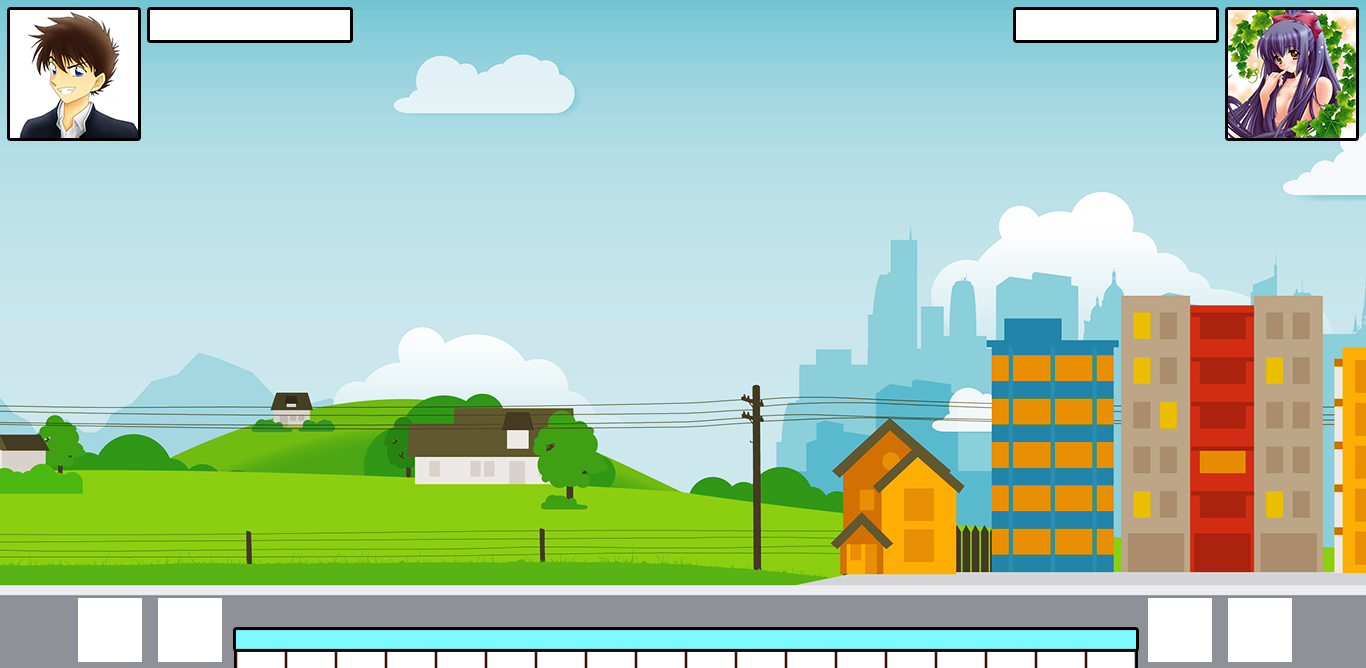
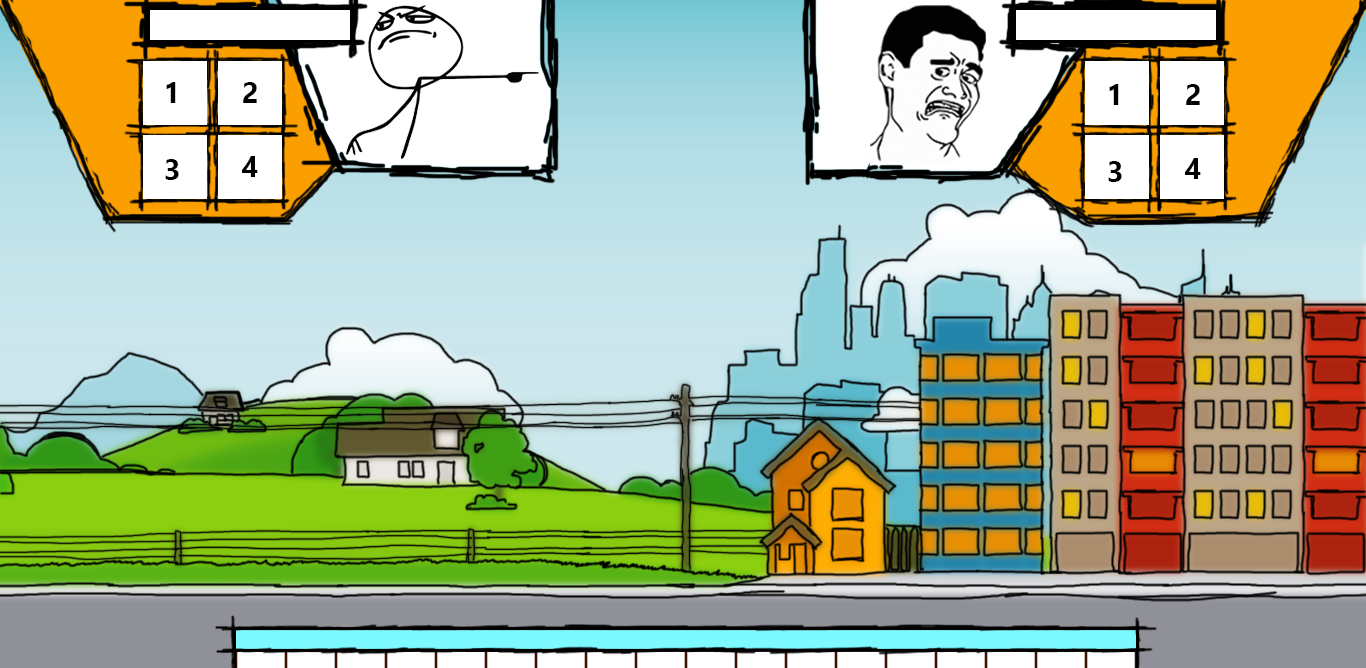
+ New resource

diff --git a/trunk/game/Soul/Soul-Leader-Cocos2d-html5/maingame.html b/trunk/game/Soul/Soul-Leader-Cocos2d-html5/maingame.html
@@ -1,0 +1,27 @@
+<!DOCTYPE html>
+<html>
+
+<style>
+    body {
+			/*background-image:url('images/bg.jpg');*/
+			background-color:#cccccc;
+			background-repeat:no-repeat;
+			background-position: center top; 
+		}
+	
+        #canvas-container {
+		   width: 100%;
+		   text-align:center;
+		   padding-top: 8px;
+		}
+
+		#maingame {
+		   display: inline;
+		}  
+</style>
+
+<frameset cols="1024px" rows="668px" id="canvas-container">
+  <frame id = "maingame" src="index.html">
+</frameset>
+
+</html>

diff --git a/trunk/game/Soul/Soul-Leader-Cocos2d-html5/cocos2d/shaders/CCGLProgram.js b/trunk/game/Soul/Soul-Leader-Cocos2d-html5/cocos2d/shaders/CCGLProgram.js
@@ -258,9 +258,7 @@ cc.GLProgram = cc.Class.extend({
         if (!source || !shader)
             return false;
 
-        //fix error in Chrome v31
-        //var preStr = (type == this._glContext.VERTEX_SHADER) ? "precision highp float;\n" : "precision mediump float;\n";
-        var preStr =  "precision highp float;\n";
+        var preStr = "precision highp float;\n";
 
         source = preStr
             + "uniform mat4 CC_PMatrix;         \n"

diff --git a/trunk/game/Soul/Soul-Leader-Cocos2d-html5/cocos2d.js b/trunk/game/Soul/Soul-Leader-Cocos2d-html5/cocos2d.js
@@ -29,7 +29,6 @@
             'src/Computer.js',
             
             'src/myApp.js'//add your own files in order here
-            
         ]
     };
 
@@ -70,3 +69,8 @@
         //else if single file specified, load singlefile
     });
 })();
+
+// //resize canvas
+// var mycanvas = document.getElementById("gameCanvas");
+// mycanvas.width = window.innerWidth;
+// mycanvas.height = window.innerHeight;

diff --git a/trunk/game/Soul/Soul-Leader-Cocos2d-html5/res/xvn/Ball/WinLose/_WinImages.js b/trunk/game/Soul/Soul-Leader-Cocos2d-html5/res/xvn/Ball/WinLose/_WinImages.js
@@ -1,0 +1,13 @@
+WinImages = [
+	"CleanAllTheThings.png",
+	"EWBTE.png",
+	"Freddie.png",
+	"gentleman.png",
+	"GreatScott.png",
+	"HeckNo.png",
+	"LOL.png",
+	"NotBad.png",
+	"PukeRainbows.png",
+	"TheSaddest.png",
+	"WellDone.png"
+];

diff --git a/trunk/game/Soul/Soul-Leader-Cocos2d-html5/res/xvn/Ball/WinLose/_LoseImages.js b/trunk/game/Soul/Soul-Leader-Cocos2d-html5/res/xvn/Ball/WinLose/_LoseImages.js
@@ -1,0 +1,13 @@
+LoseImages = [
+	"Baww.png",
+	"Derrrp.png",
+	"FemaleMilk.png",
+	"ForeverDontCare.png",
+	"HerpDerp.png",
+	"Laughing.png",
+	"NoneoftheThings.png",
+	"OhGodWhy.png",
+	"Okay.png",
+	"Troll.png",
+	"YUNO.png"
+];
